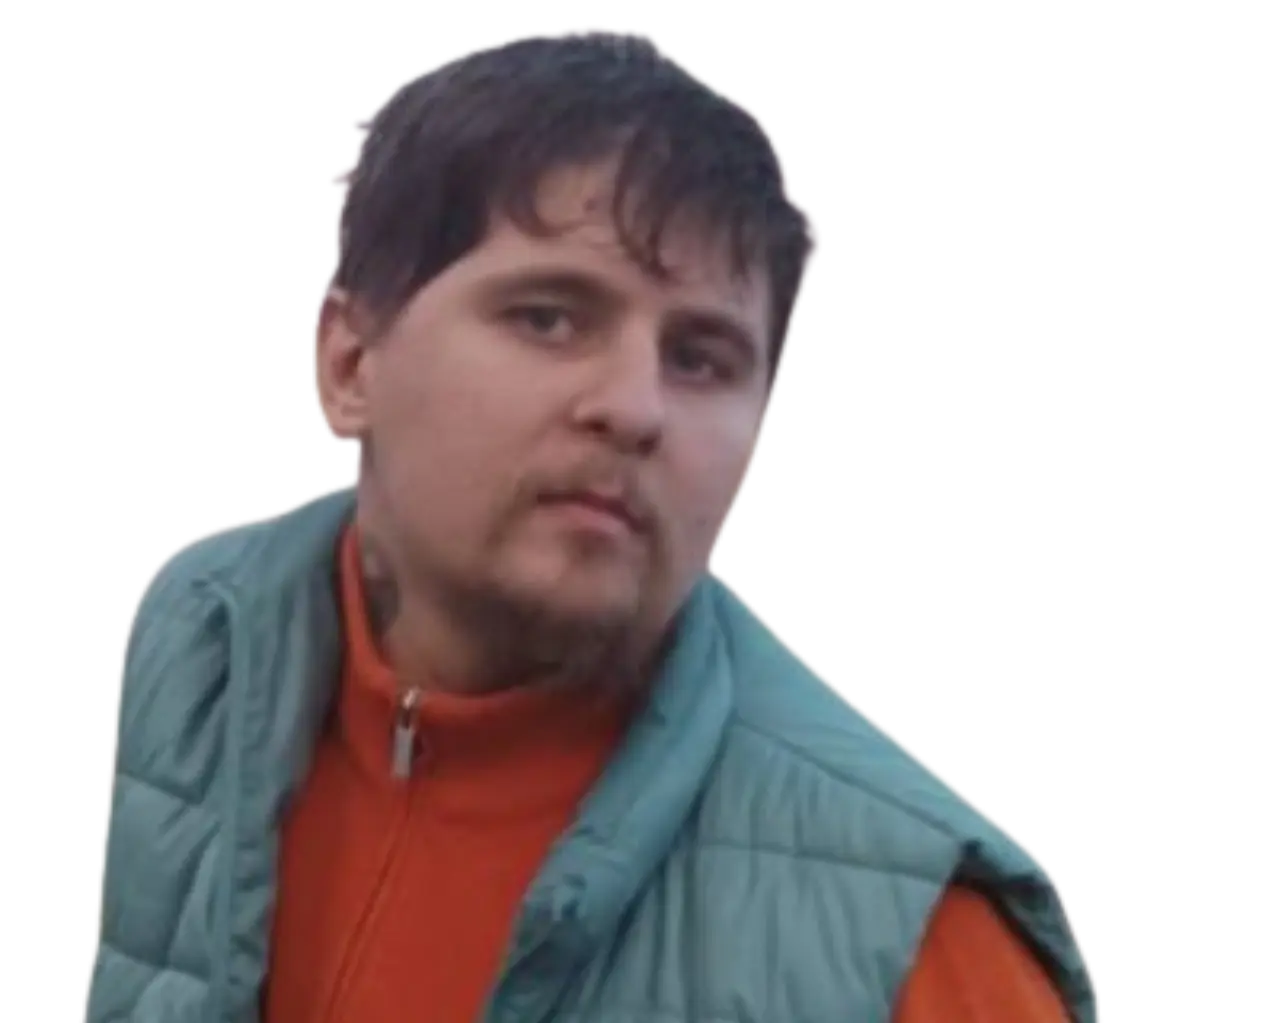
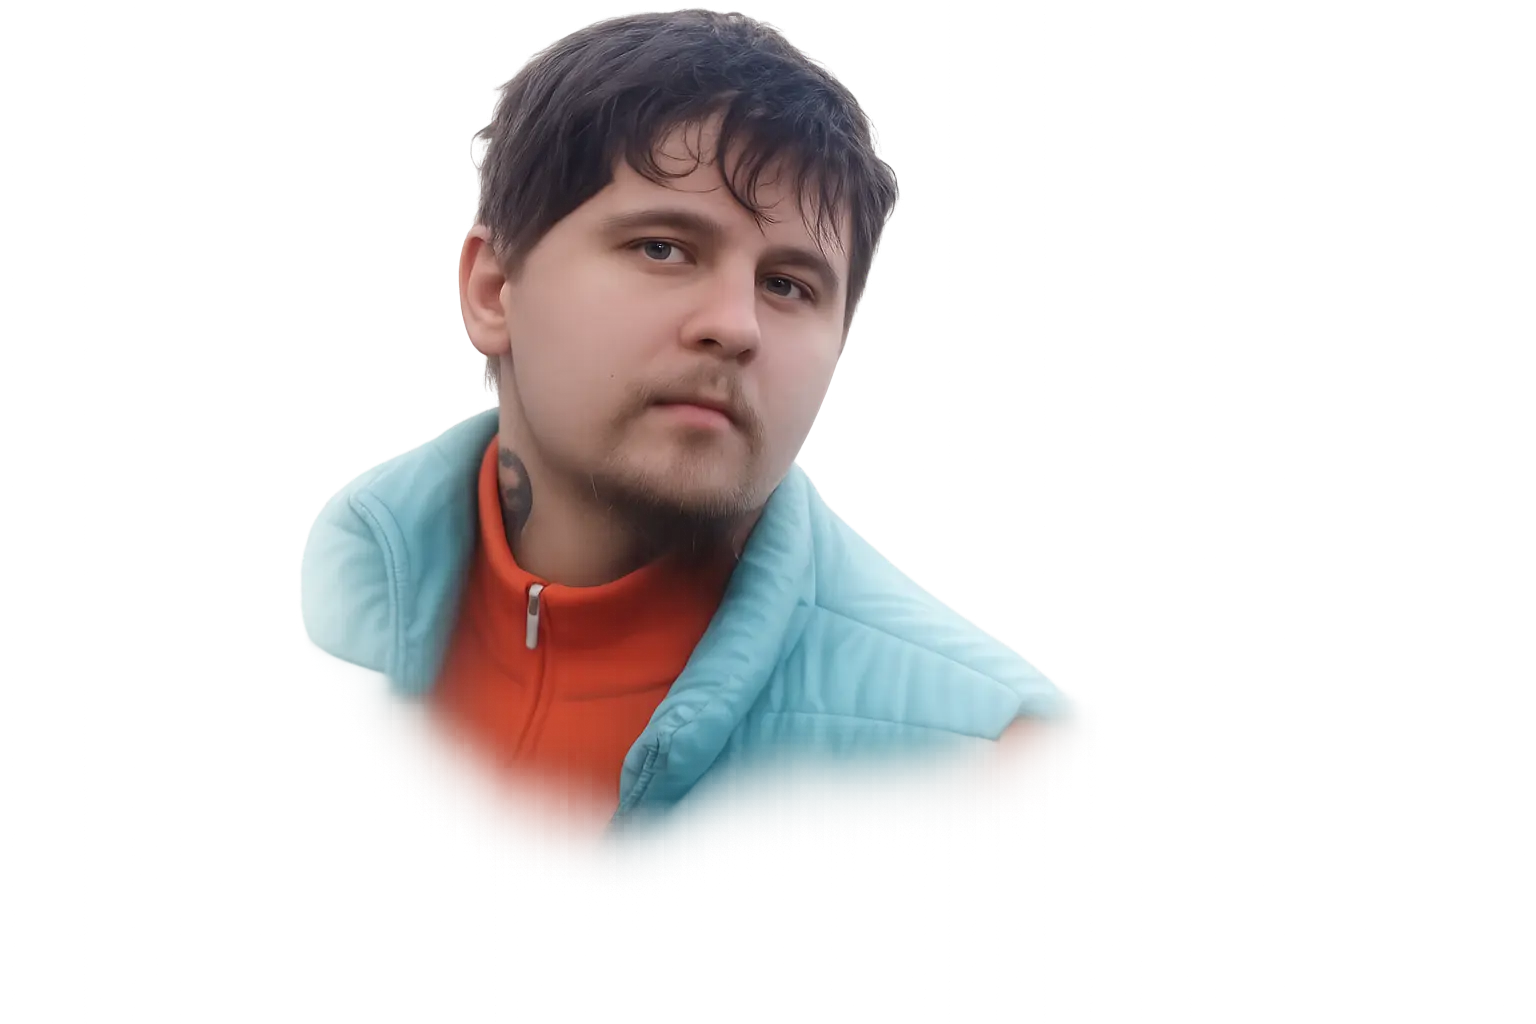
styled HERO

diff --git a/css/hero.css b/css/hero.css
@@ -1,7 +1,6 @@
 .hero .container {
   margin-top: -92px;
-  height: 1024px;
-  padding-top: 258px;
+  height:100vh;
 
   position: relative;
 }
@@ -36,8 +35,8 @@
   text-align: end;
 
   position: absolute;
-  top: 536px;
-  right: 20px;
+  top: 476px;
+  right: -150px;
 }
 
 .hero_text1,
@@ -56,33 +55,32 @@
 }
 
 .hero_text1 {
-  top: 238px;
-  left: 134px;
+  top: 170px;
+  left: -100px;
   z-index: 1;
 }
 
 .hero_text2 {
-  left: 20px;
-  top: 517px;
+  left: -350px;
+  top: 450px;
   z-index: 3;
 }
 
 .hero_text3 {
-    top: 703px;
-    right: 20px;
-z-index: 3;
+  top: 580px;
+  right: -510px;
+  z-index: 3;
 }
 
 .hero_arrow {
-    position: absolute;
-    top: 841px;
-    left: 20px;
+  position: absolute;
+  top: 770px;
+  left: 20px;
 }
 
 .hero_img {
-    position: absolute;
-    top: 0;
-    left: 164px;
-    z-index: 2;
-
+  position: absolute;
+  top: 0;
+  left: 44px;
+  z-index: 2;
 }

diff --git a/css/header.css b/css/header.css
@@ -12,16 +12,26 @@
   display: flex;
   align-items: center;
   justify-content: space-between;
+  padding: 0;
 }
 
-.nav_item{
+.nav_item {
   transform: scaleX(0.5);
-
+  padding: 0;
 }
 
-.nav_item:first-child, .nav_item:nth-child(2){
-  display: flex;
-  justify-content: start;
+.nav_item:first-child,
+.nav_item:nth-child(2) {
+  margin-left: -50px;
+}
+
+.nav_item:nth-child(3),.nav_item:nth-child(4){
+  margin-right: -75px;
+}
+
+.nav_item:nth-child(3){
+  margin-right: -120px;
+  margin-left: 100px;
 }
 
 .nav_item_link {

diff --git a/css/style.css b/css/style.css
@@ -1,4 +1,4 @@
-@import url("./fons.css");
+@import url("fons.css");
 @import url("header.css");
 @import url("hero.css");
 